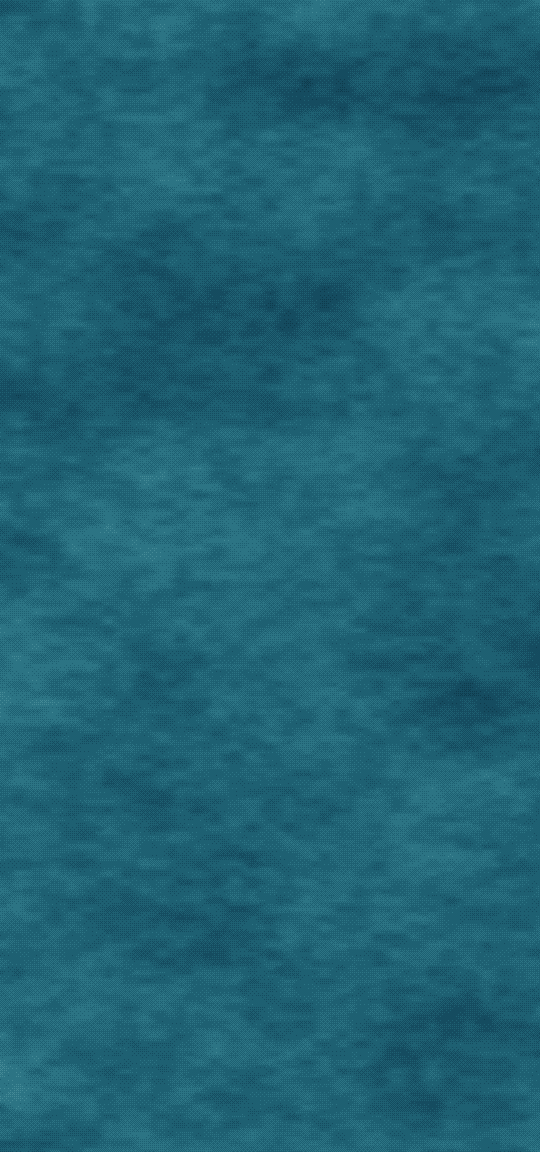
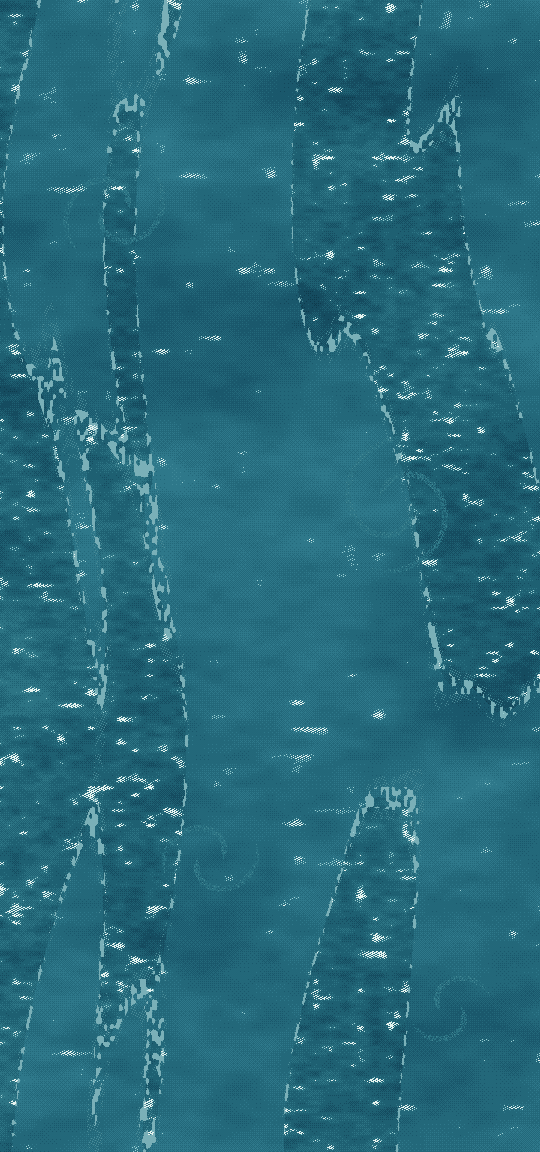
Onomichi, phase 7: the Inland Sea by day. The far water now runs in the tide's lanes along the strait, glassy slicks beside choppy water, flecks of foam where two streams meet, four slow eddies turning off them and the sun glinting on the chop's crests, in a seamless loop. And it takes the time of d

diff --git a/src/game/Parallax.js b/src/game/Parallax.js
@@ -60,6 +60,8 @@ export class Parallax {
     this.farNight = scene.textures.exists(`${farKey}_night`)
       ? scene.add.tileSprite(0, 0, VIEW.width, VIEW.maxHeight, `${farKey}_night`).setOrigin(0, 0).setTileScale(invScale, invScale).setDepth(DEPTH.far + 0.01).setAlpha(0)
       : null;
+    // Onomichi: the far water takes the strip's time of day (the white of its grade where the screen's middle is)
+    this.farGrade = meta.farTint && meta.tint ? meta.tint : null;
     this.chunks = [];
     this.sway = meta.sway ? new TreeSway(scene, stage.id, meta, DEPTH.mid, VIEW.width) : null;
     if (this.sway) this.chunks = this.sway.chunks;
@@ -183,6 +185,16 @@ export class Parallax {
       if (vis) img.y = y;
     }
     this.far.tilePositionY = -(Math.round(this.farTime * this.speed.far * this.artScale) % this.farH);
+    if (this.farGrade) {
+      // (what white turns into at the screen's middle on the strip: the water warms to the sunset, then dims)
+      const t = this.farGrade;
+      const u = this.uTop - H / 2;
+      let i = 0;
+      while (i < t.length - 2 && u >= t[i + 1][0]) i++;
+      const k = Math.max(0, Math.min(1, (u - t[i][0]) / (t[i + 1][0] - t[i][0])));
+      const ch = (sh) => Math.round(((t[i][1] >> sh) & 255) + (((t[i + 1][1] >> sh) & 255) - ((t[i][1] >> sh) & 255)) * k);
+      this.far.setTint((ch(16) << 16) | (ch(8) << 8) | ch(0));
+    }
     if (this.farNight) {
       const d = this.darkness(H);
       this.farNight.tilePositionY = this.far.tilePositionY;
